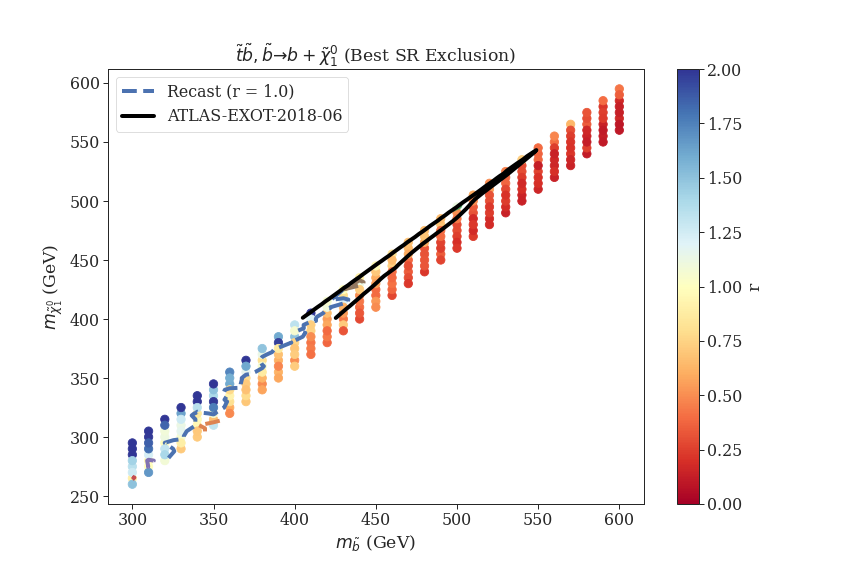
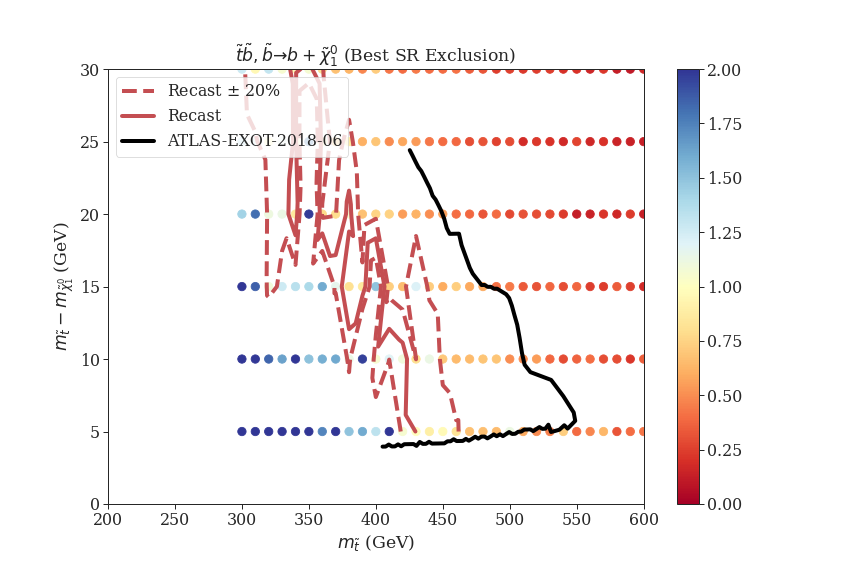
Improving validation of atlas_exot

diff --git a/myCheckMate3Files/validation/validation_plots/plotValidation_atlas_exot_2018_06_T2cc.py b/myCheckMate3Files/validation/validation_plots/plotValidation_atlas_exot_2018_06_T2cc.py
@@ -48,33 +48,44 @@ for slhaFile in glob.glob(slhaFolder+'T2cc*.slha'):
 recastData = np.array(recastData)
 
 ## %% Get exclusion contours for combined results (signal +- 20%)
-contours = getContour(recastData[:,0],recastData[:,1],recastData[:,2],levels=[0.8,1.0,1.2])
+contours = getContour(recastData[:,0],recastData[:,0]-recastData[:,1],recastData[:,2],levels=[0.8,1.0,1.2])
 
 
 # %% plot result
 fig = plt.figure(figsize=(12,8))
-ax = plt.scatter(recastData[:,0],recastData[:,1],
-    c=recastData[:,2],cmap=cm,vmin=0.0,vmax=2.0,s=70)
-cb = plt.colorbar(ax)
+# ax = plt.scatter(recastData[:,0],recastData[:,0]-recastData[:,1],
+    # c=recastData[:,2],cmap=cm,vmin=0.0,vmax=2.0,s=70)
+# cb = plt.colorbar(ax)
 for level,curves in contours.items():
-    if level != 1.0: continue
-    for i,curve in enumerate(curves):
-        if i == 0:
-            plt.plot(curve[:,0],curve[:,1],label='Recast (r = %s)' %str(level),
-                linestyle='--',linewidth=4)
-        else:
-            plt.plot(curve[:,0],curve[:,1],
-                linestyle='--',linewidth=4)
-plt.plot(offCurve['mst'],offCurve['mlsp'],linewidth=4,
+    # if level != 1.0: continue
+    npts = [len(c) for c in curves]
+    for curve in curves:
+        if len(curve) != max(npts): continue
+        if level == 1.0:
+            ls = '-'
+            label = r'Recast'
+        elif level == 0.8:
+            ls = '--'
+            label = r'Recast $\pm$ 20%'
+        elif level == 1.2:
+            ls = '--'
+            label = None
+
+        plt.plot(curve[:,0],curve[:,1],c='r',label= label,linestyle=ls,linewidth=4)
+
+plt.fill_betweenx(contours[1.0][0][:,1], contours[1.0][0][:,0], color='r', alpha=0.2)
+plt.plot(offCurve['mst'],offCurve['mst']-offCurve['mlsp'],linewidth=4,
             color='black',label='ATLAS-EXOT-2018-06')
 plt.xlabel(r'$m_{\tilde{t}}$ (GeV)')
-plt.ylabel(r'$m_{\tilde{\chi}_1^0}$ (GeV)')
+plt.ylabel(r'$m_{\tilde{t}}-m_{\tilde{\chi}_1^0}$ (GeV)')
 # for pt in recastData:
     # if pt[2] < 1.0:
         # plt.annotate('%1.1f'%pt[2],(pt[0],pt[1]),
                     # fontsize=10)
-cb.set_label("r")
-plt.legend()
-plt.title(r'$\tilde{t} \tilde{t}, \tilde{t} \to c + \tilde{\chi}_1^0$ (Best SR Exclusion)')
+# cb.set_label("r")
+plt.legend(loc='upper left')
+plt.xlim(100.,650)
+plt.ylim(0.,50)
+plt.title(r'$\tilde{t} \tilde{t}, \tilde{t} \to c + \tilde{\chi}_1^0$')
 plt.savefig("atlas_exot_2018_06_T2cc.png")
 plt.show()

diff --git a/myCheckMate3Files/validation/validation_plots/plotValidation_atlas_exot_2018_06_T2bbcomp.py b/myCheckMate3Files/validation/validation_plots/plotValidation_atlas_exot_2018_06_T2bbcomp.py
@@ -48,33 +48,45 @@ for slhaFile in glob.glob(slhaFolder+'T2bbcomp*.slha'):
 recastData = np.array(recastData)
 
 ## %% Get exclusion contours for combined results (signal +- 20%)
-contours = getContour(recastData[:,0],recastData[:,1],recastData[:,2],levels=[0.8,1.0,1.2])
+contours = getContour(recastData[:,0],recastData[:,0]-recastData[:,1],recastData[:,2],levels=[0.8,1.0,1.2])
 
 
 # %% plot result
 fig = plt.figure(figsize=(12,8))
-ax = plt.scatter(recastData[:,0],recastData[:,1],
+ax = plt.scatter(recastData[:,0],recastData[:,0]-recastData[:,1],
     c=recastData[:,2],cmap=cm,vmin=0.0,vmax=2.0,s=70)
 cb = plt.colorbar(ax)
 for level,curves in contours.items():
-    if level != 1.0: continue
-    for i,curve in enumerate(curves):
-        if i == 0:
-            plt.plot(curve[:,0],curve[:,1],label='Recast (r = %s)' %str(level),
-                linestyle='--',linewidth=4)
-        else:
-            plt.plot(curve[:,0],curve[:,1],
-                linestyle='--',linewidth=4)
-plt.plot(offCurve['msb'],offCurve['mlsp'],linewidth=4,
+    # if level != 1.0: continue
+    npts = [len(c) for c in curves]
+    for curve in curves:
+        if len(curve) != max(npts): continue
+        if level == 1.0:
+            ls = '-'
+            label = r'Recast'
+        elif level == 0.8:
+            ls = '--'
+            label = r'Recast $\pm$ 20%'
+        elif level == 1.2:
+            ls = '--'
+            label = None
+
+        plt.plot(curve[:,0],curve[:,1],c='r',label= label,linestyle=ls,linewidth=4)
+
+plt.fill_betweenx(contours[1.0][0][:,1], contours[1.0][0][:,0], color='r', alpha=0.2)
+plt.plot(offCurve['msb'],offCurve['msb']-offCurve['mlsp'],linewidth=4,
             color='black',label='ATLAS-EXOT-2018-06')
-plt.xlabel(r'$m_{\tilde{b}}$ (GeV)')
-plt.ylabel(r'$m_{\tilde{\chi}_1^0}$ (GeV)')
+plt.xlabel(r'$m_{\tilde{t}}$ (GeV)')
+plt.ylabel(r'$m_{\tilde{t}}-m_{\tilde{\chi}_1^0}$ (GeV)')
 # for pt in recastData:
     # if pt[2] < 1.0:
         # plt.annotate('%1.1f'%pt[2],(pt[0],pt[1]),
                     # fontsize=10)
-cb.set_label("r")
-plt.legend()
-plt.title(r'$\tilde{t} \tilde{b}, \tilde{b} \to b + \tilde{\chi}_1^0$ (Best SR Exclusion)')
+# cb.set_label("r")
+plt.legend(loc='upper left')
+plt.xlim(200.,600)
+plt.ylim(0.,30)
+
+plt.title(r'$\tilde{b} \tilde{b}, \tilde{b} \to b + \tilde{\chi}_1^0$ (Best SR Exclusion)')
 plt.savefig("atlas_exot_2018_06_T2bb.png")
 plt.show()

diff --git a/README.md b/README.md
@@ -20,7 +20,7 @@ The searches used for obtaining the LHC exclusion rely on recasting through Chec
 
 
 
-More information about the CheckMATE implementation and validation can be found [here](./myCheckMateFiles3/validation/)
+More information about the CheckMATE implementation and validation can be found [here](./myCheckMate3Files/validation/)
 and more details about the results can be found in [results](./results).
 
 ## Basic Installation ##
